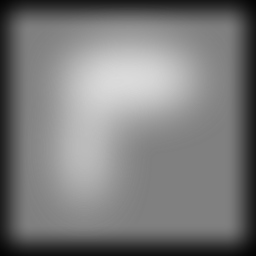
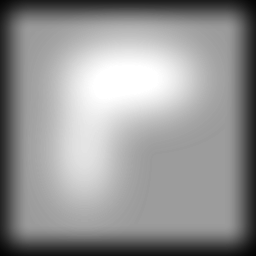
swapped out textures, buffed housing

diff --git a/Gamemode.js b/Gamemode.js
@@ -46,7 +46,7 @@ Gamemode.prepare = function(){
 	PFGrid.grid.setWalkableAt(54, 54, false);
 	PFGrid.gridBackup.setWalkableAt(54, 54, false);
 	Tower({
-		towerType:"quarry",
+		towerType:"caveDiggers",
 		parent:0,
 		x:50 * 48,
 		y:50 * 48,
